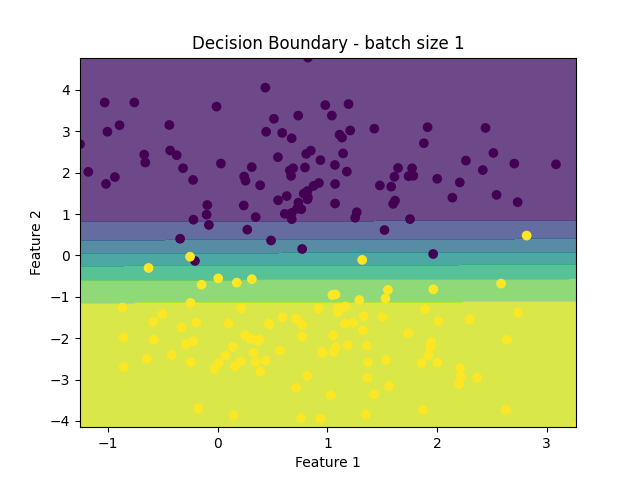
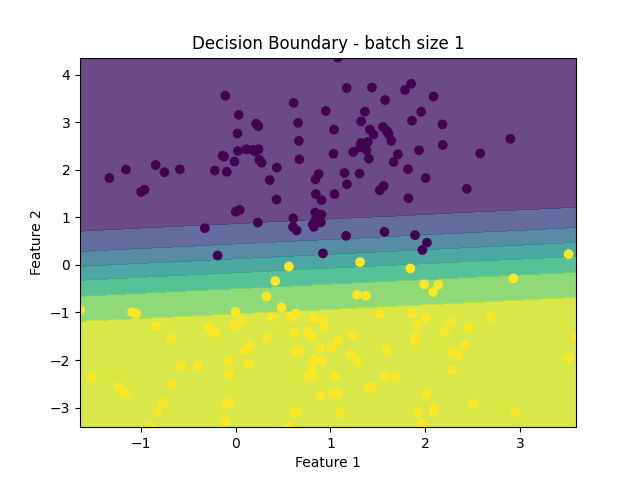
adding more figures

diff --git a/03_logistic_regression.py b/03_logistic_regression.py
@@ -36,7 +36,7 @@ plt.show()
 # Split data
 indices = np.arange(X.shape[0])
 np.random.shuffle(indices)
-batch_size=1
+batch_size=128
 test_set_size = int(len(X) * TEST_SIZE)
 test_indices = indices[:test_set_size]
 train_indices = indices[test_set_size:]
@@ -127,7 +127,10 @@ for i in range(X_test.shape[0]):
     x_node.value=X_test[i]
     #x2_node.value = X_test[i][1].reshape(1, -1)
     forward_pass(graph)
-
+   # if np.round(sigmoid.value)== y_test[i]:
+    #    correct_predictions += 1
+    #the above method count the the boundary as a correct precdition!
+    #that's why i used the below method
     if sigmoid.value >0.5 and y_test[i]==1 or sigmoid.value <0.5 and y_test[i]==0:
         correct_predictions += 1
 
